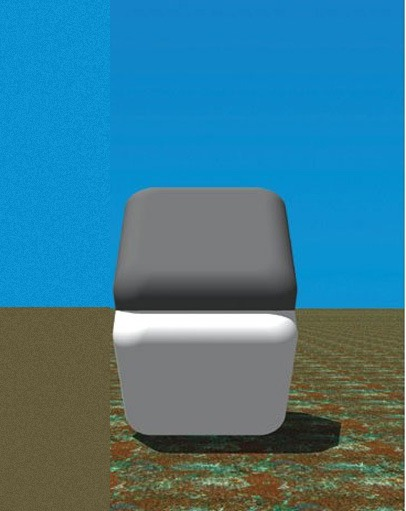
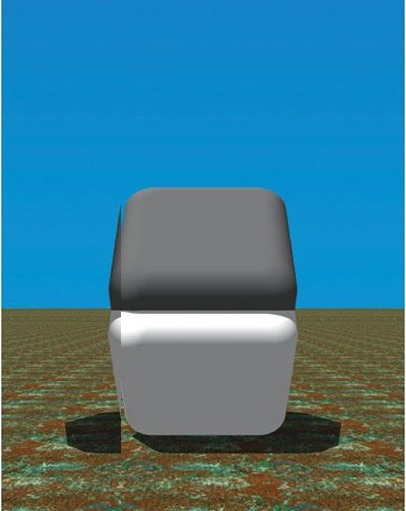
S47左邊背景改為右邊鏡射複製，完全無縫；S46紅線再微調更貼近幾何交會點

Changed region(s): [[0.0, 0.0, 0.3251, 1.0]]

diff --git a/index.html b/index.html
@@ -971,8 +971,8 @@ body.no-clickzones .click-zones { display: none; }
     <div style="text-align:center;">
       <div style="position:relative; display:inline-block;">
         <img src="assets/d2_illusion1.png" alt="繆氏錯覺" style="max-height:58vh; display:block; margin:0 auto;">
-        <div class="reveal-step" style="position:absolute; left:22.8%; top:4.5%; height:91%; width:0; border-left:3px dashed #E23B3B;"></div>
-        <div class="reveal-step" style="position:absolute; left:75.9%; top:3.8%; height:91%; width:0; border-left:3px dashed #E23B3B;"></div>
+        <div class="reveal-step" style="position:absolute; left:23.9%; top:4.5%; height:91%; width:0; border-left:3px dashed #E23B3B;"></div>
+        <div class="reveal-step" style="position:absolute; left:75.1%; top:3.8%; height:91%; width:0; border-left:3px dashed #E23B3B;"></div>
       </div>
       <div class="cap">兩條線段其實一樣長（Müller-Lyer 錯覺）</div>
     </div>